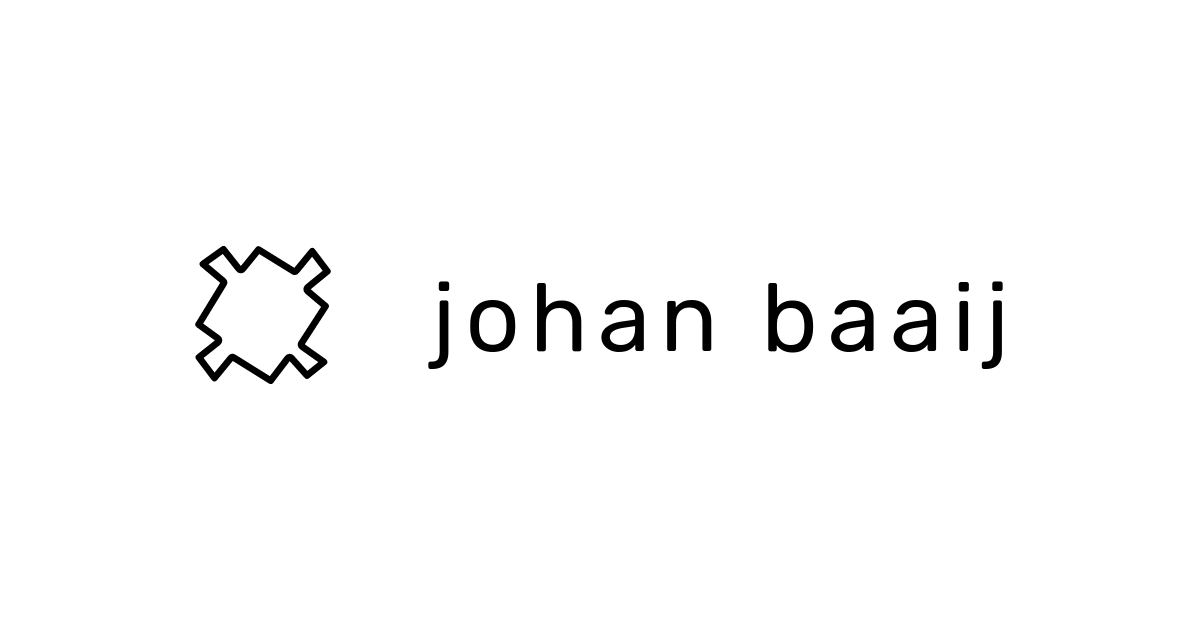
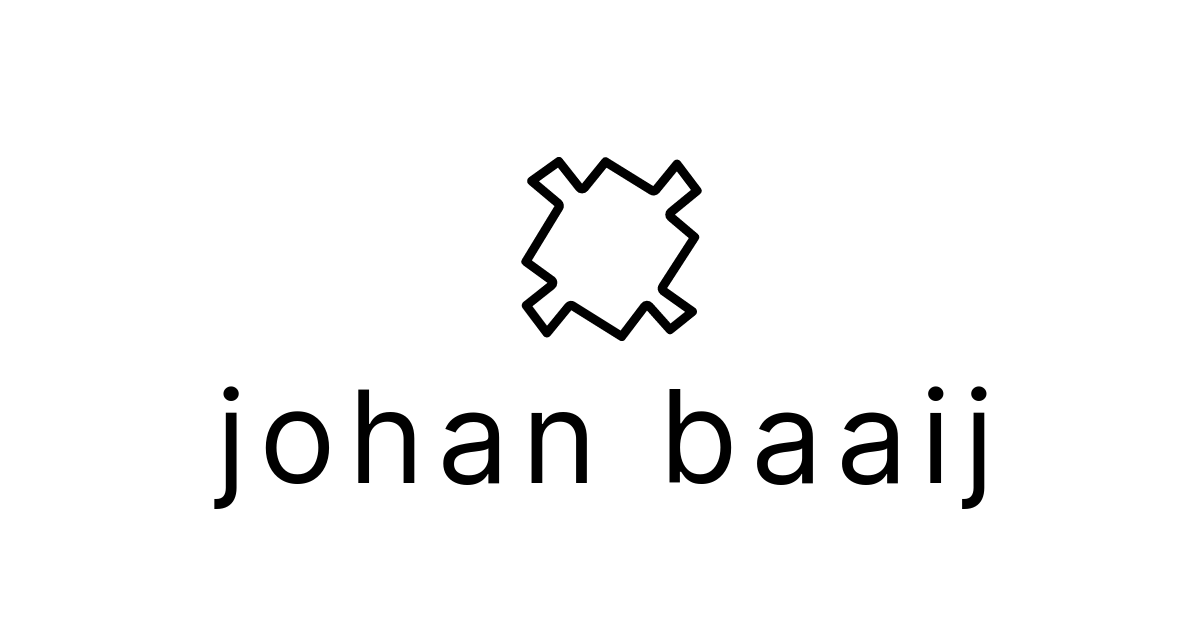
feat: use Inter font

Changed region(s): [[0.3392, 0.2413, 0.8325, 0.8143], [0.1542, 0.3921, 0.4933, 0.8143]]

diff --git a/components/BlogCategories.vue b/components/BlogCategories.vue
@@ -6,7 +6,7 @@
     <nuxt-link
       v-for="category in categories"
       :key="category.slug"
-      class="block px-3 py-1 mb-2 mr-2 text-sm font-semibold text-gray-700 bg-gray-200 rounded-full categories__link"
+      class="block px-3 py-1 mb-2 mr-2 text-sm font-bold text-gray-700 bg-gray-200 rounded-full categories__link"
       :to="category.slug | categoryRoute"
       >{{ category.title }}</nuxt-link
     >

diff --git a/components/CategoryBadges.vue b/components/CategoryBadges.vue
@@ -4,7 +4,7 @@
     <li
       v-for="(title, index) in categories"
       :key="index"
-      class="inline-block px-3 py-1 mt-2 mr-2 text-sm font-semibold text-gray-700 bg-gray-200 rounded-full"
+      class="inline-block px-3 py-1 mt-2 mr-2 text-sm font-bold text-gray-700 bg-gray-200 rounded-full"
     >
       <nuxt-link :to="categoryByTitle(title).slug | categoryRoute">
         {{ title }}

diff --git a/layouts/default.vue b/layouts/default.vue
@@ -11,9 +11,7 @@
         </nuxt-link>
       </div>
       <div class="lg:col-span-4">
-        <h1
-          class="text-5xl tracking-widest text-center lowercase lg:inline lg:text-6xl"
-        >
+        <h1 class="text-6xl tracking-widest text-center lowercase lg:inline">
           Johan Baaij
         </h1>
       </div>

diff --git a/components/BlogPost.vue b/components/BlogPost.vue
@@ -47,7 +47,7 @@ export default BlogPost
     @apply text-black font-bold;
   }
   & a {
-    @apply text-black font-semibold;
+    @apply text-black font-bold;
   }
   & strong a {
     @apply font-bold;

diff --git a/nuxt.config.ts b/nuxt.config.ts
@@ -80,7 +80,7 @@ export default {
   modern: 'client',
   webfontloader: {
     google: {
-      families: ['Rubik']
+      families: ['Inter:400,700&display=swap']
     }
   }
 }

diff --git a/tailwind.config.js b/tailwind.config.js
@@ -7,7 +7,7 @@
 module.exports = {
   theme: {
     fontFamily: {
-      sans: ['Rubik']
+      sans: ['Inter, sans-serif']
     }
   },
   variants: {},
